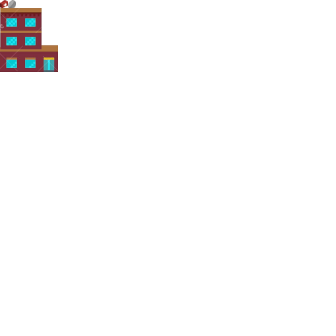
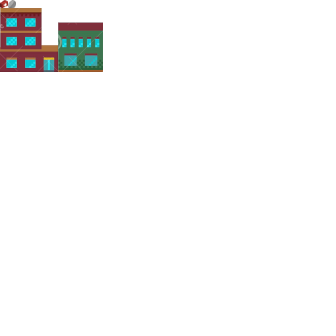
Adicionado choice de Bulding

Changed region(s): [[0.1488, 0.0595, 0.3274, 0.2381]]

diff --git a/buiding.py b/buiding.py
@@ -1,3 +1,5 @@
+import random
+
 class Buildind_1:
     def __init__(self, pyxel, tile_map, player, x_init):
         self.pyxel = pyxel
@@ -25,6 +27,15 @@ class Buildind_1:
             0,
         )
 
+class Building_2(Buildind_1):
+    def __init__(self, pyxel, tile_map, player, x_init):
+        super().__init__(pyxel, tile_map, player, x_init)
+        self.tile_pos_x = 58
+        self.tile_pos_y = 8
+        self.w = 58
+        self.h = 64
+
+
 
 class Building:
     def __init__(self, pyxel, tile_map, game_witht, game_height):
@@ -34,6 +45,7 @@ class Building:
         self.game_height = game_height
         self.lista_building_left = []
         self.lista_building_right = []
+        self.building_options = [Buildind_1, Building_2]
 
     def get_sum_size_building(self, lista):
         sum_building = sum([i.w + 10 for i in lista])
@@ -51,14 +63,15 @@ class Building:
         self.explorer_map = player.explorer_map
         map_size_left = self.explorer_map[0] - 300
         map_size_right = self.explorer_map[1] + 300
-        print(map_size_left, self.get_sum_size_building_left())
         while map_size_left < self.get_sum_size_building_left():
-            building_add = Buildind_1(
+            Build_class = random.choice(self.building_options)
+            building_add = Build_class(
                 self.pyxel, self.tile_map, player, self.get_sum_size_building_left()
             )
             self.lista_building_left.append(building_add)
         while map_size_right > self.get_sum_size_building_right():
-            building_add = Buildind_1(
+            Build_class = random.choice(self.building_options)
+            building_add = Build_class(
                 self.pyxel, self.tile_map, player, self.get_sum_size_building_right()
             )
             self.lista_building_right.append(building_add)
